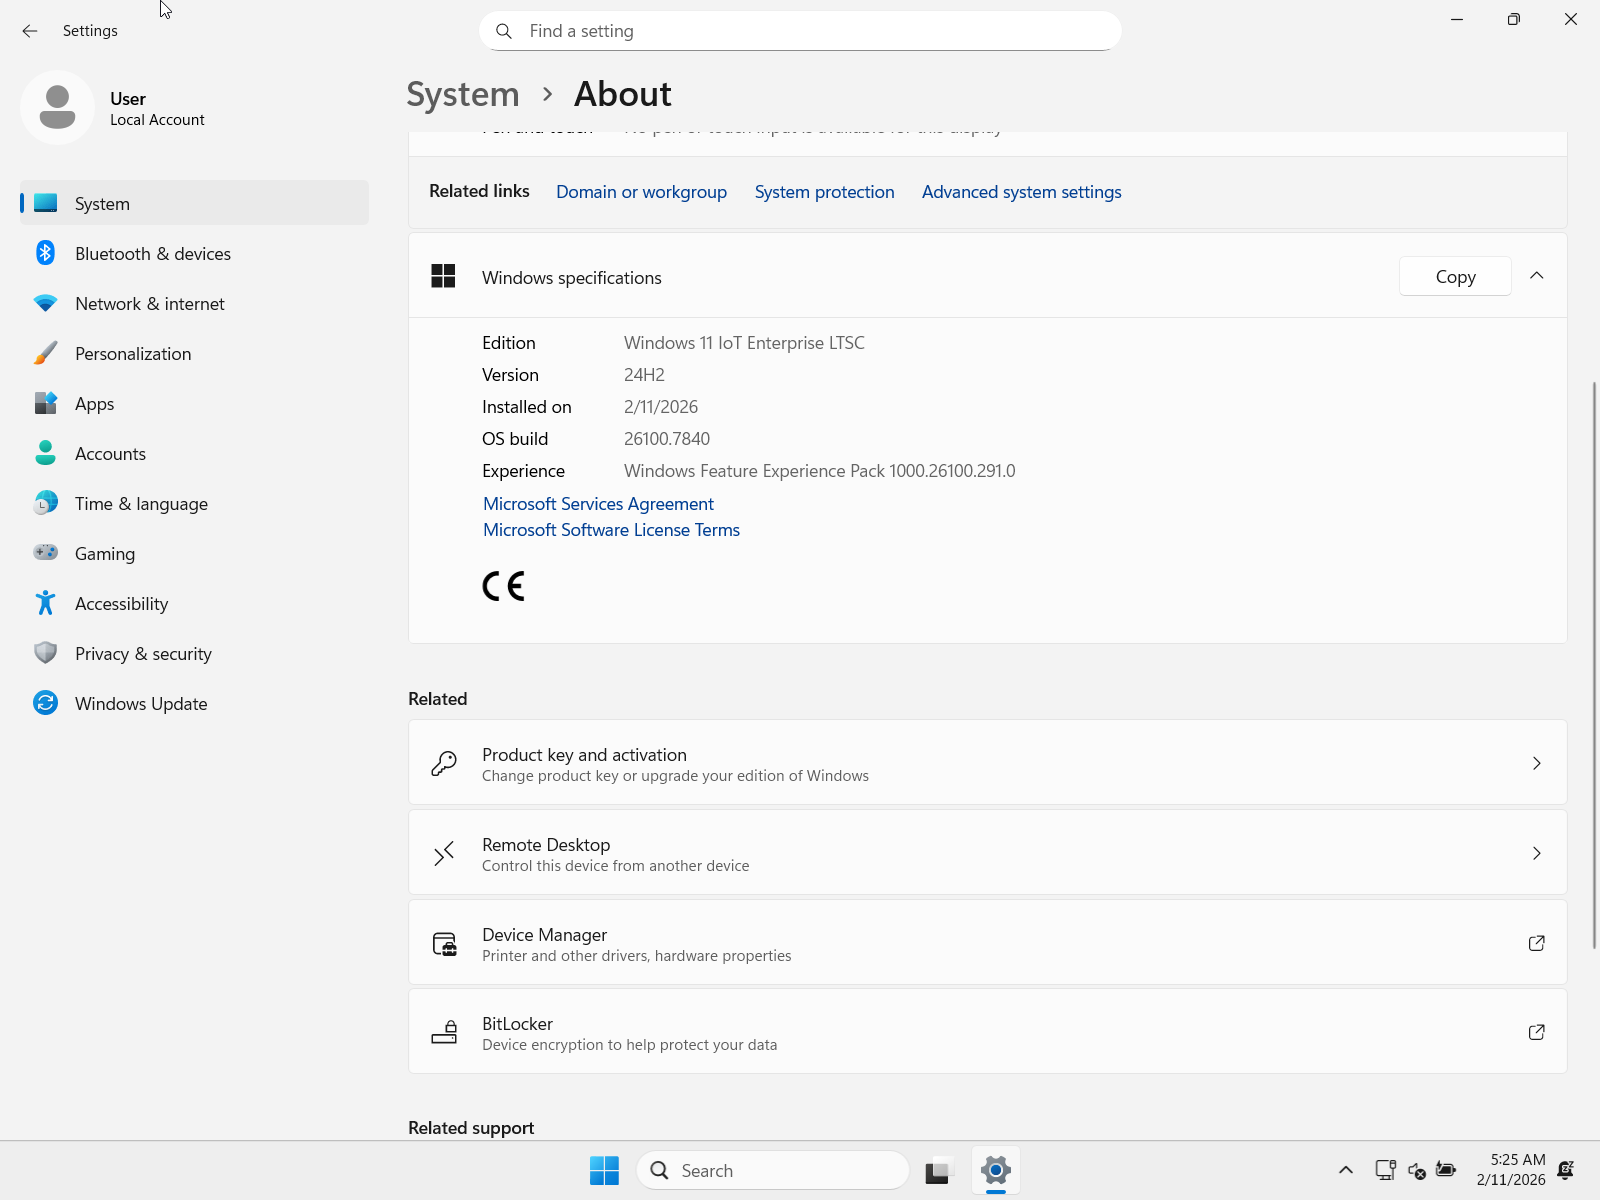
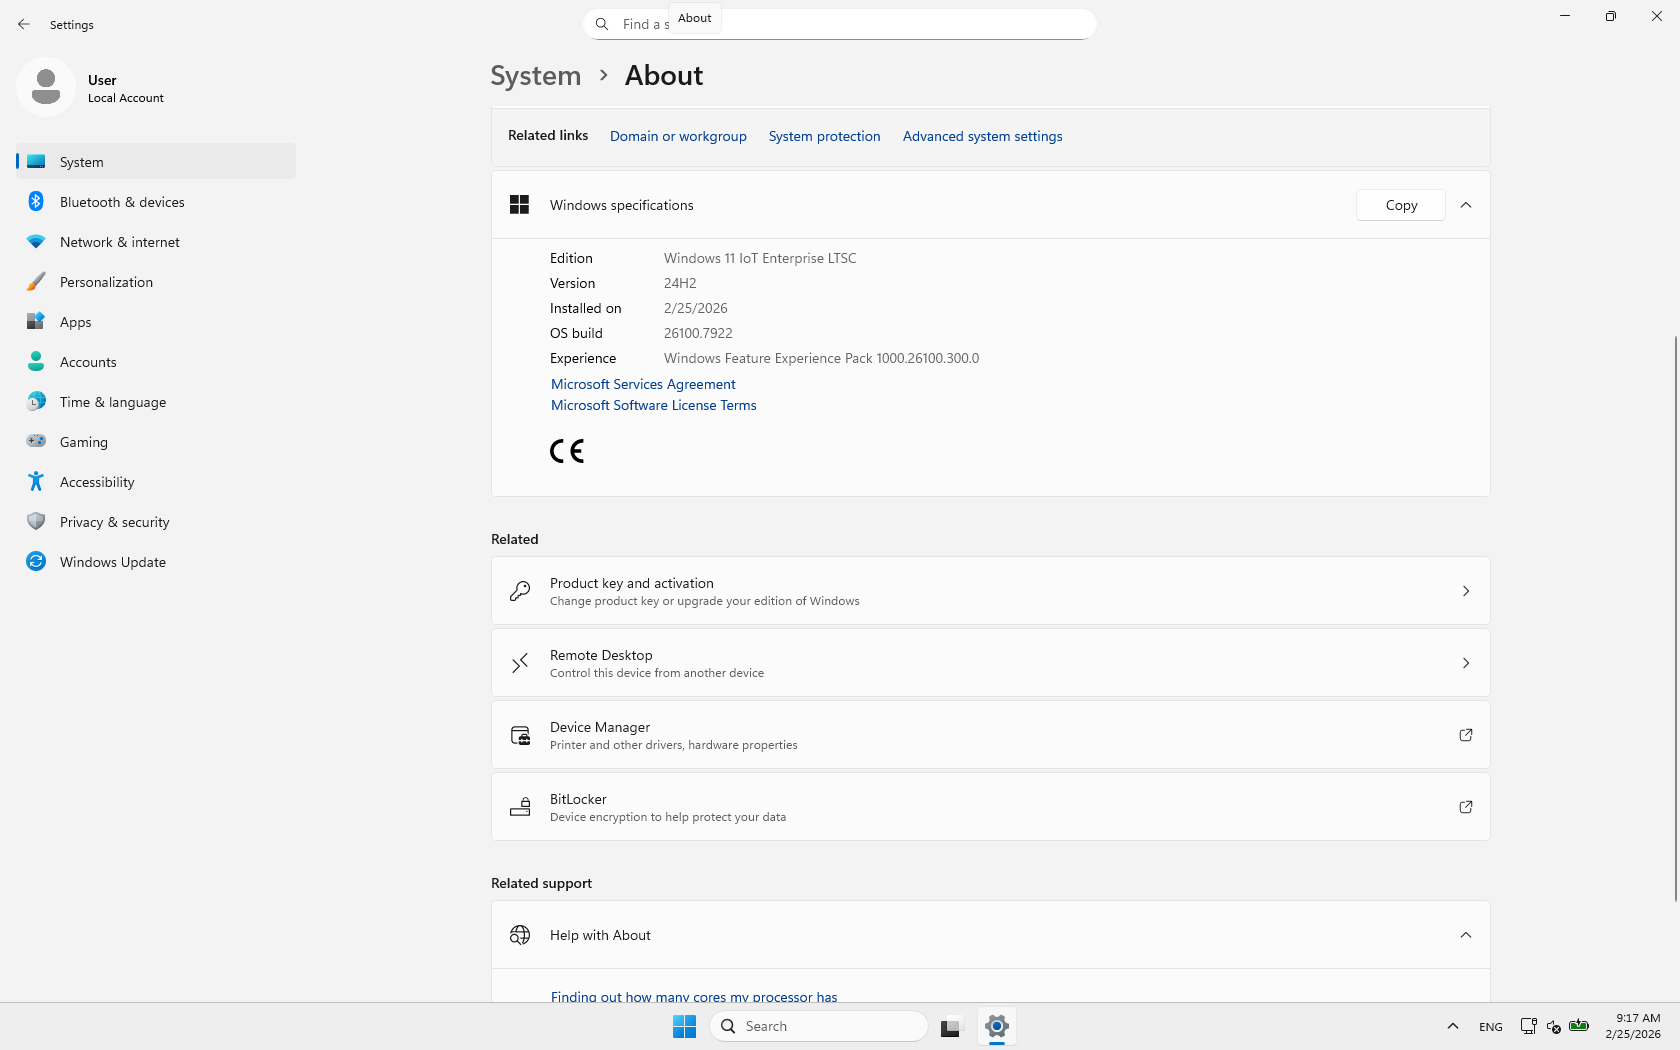
update

diff --git a/windows-11-en/index.html b/windows-11-en/index.html
@@ -53,7 +53,7 @@
             <div class="card-text"><a href="/" class="return-link"><span class="lang-en"><b>Return to Home</b></span><span class="lang-ru"><b>Вернуться на главную</b></span></a></div>
             <div class="card-text"><span class="lang-en">Language: English</span><span class="lang-ru">Язык: Английский</span></div>
             <div class="card-text"><span class="lang-en">Windows 11 IoT Enterprise LTSC (Long-Term Servicing Channel) is a lightweight version of Windows with long-term support, designed for stable performance on embedded devices and specialized systems. It excludes unnecessary apps, reducing system requirements and making it an ideal solution where reliability and minimal interference are critical.</span><span class="lang-ru">Windows 11 IoT Enterprise LTSC (Long-Term Servicing Channel) — это облегченная версия Windows с долгосрочной поддержкой, разработанная для стабильной работы на встраиваемых устройствах и специализированных системах. Она исключает ненужные приложения, снижая системные требования и делая ее идеальным решением там, где критически важны надежность и минимальное вмешательство.</span></div>
-            <div class="updated"><span class="lang-en"><b>TPM, Secure Boot, and OOBE checks are disabled,<br>Updated to 26100.7840 (February 2026) by somov</b></span><span class="lang-ru"><b>Проверки TPM, Secure Boot и OOBE отключены,<br>Обновлено до 26100.7840 (Февраль 2026) by somov</b></span></div>
+            <div class="updated"><span class="lang-en"><b>TPM, Secure Boot, and OOBE checks are disabled,<br>Updated to 26100.7922 Preview (February 2026) by somov</b></span><span class="lang-ru"><b>Проверки TPM, Secure Boot и OOBE отключены,<br>Обновлено до 26100.7922 Предварительная версия (Февраль 2026) by somov</b></span></div>
             <div class="card-text"><span class="lang-en"><b>System Requirements:</b></span><span class="lang-ru"><b>Системные требования:</b></span></div>
             <div class="card-text">
               <ol class="marker-list">
@@ -66,13 +66,13 @@
             </div>
             <div class="card-text"><span class="lang-en"><b>Image checksums:</b></span><span class="lang-ru"><b>Контрольные суммы образа:</b></span></div>
             <div class="card-text">
-              <ol class="marker-list"><li><b>CRC32:</b> 1cdebf70</li>
-              <li><b>MD5:</b> 9bc4ed0801b86a0e84af34fa4823c0ac</li>
-              <li><b>SHA-1:</b> de0ac0b2cb92c01ec540aba8689aabe03955b611</li>
+              <ol class="marker-list"><li><b>CRC32:</b> 046cc330</li>
+              <li><b>MD5:</b> 32b05e3bad65fe90d441f6d038db2010</li>
+              <li><b>SHA-1:</b> 654143750c1c11abac725e9924457497d7081972</li>
             </ol></div>
             <div class="button-container">
-            <a class="btn-windows" href="https://dl3.somov.org/en-us_windows_11_iot_enterprise_ltsc_2024_x64_26100.7840_by_somov.iso"><span class="lang-en">Download</span><span class="lang-ru">Скачать</span></a>
-            <a class="torrent-link" href="https://dl.somov.org/en-us_windows_11_iot_enterprise_ltsc_2024_x64_26100.7840_by_somov.iso.torrent"><span class="lang-en">Download by torrent</span><span class="lang-ru">Скачать с помощью torrent</span></a>
+            <a class="btn-windows" href="https://dl3.somov.org/en-us_windows_11_iot_enterprise_ltsc_2024_x64_26100.7922_by_somov.iso"><span class="lang-en">Download</span><span class="lang-ru">Скачать</span></a>
+            <a class="torrent-link" href="https://dl.somov.org/en-us_windows_11_iot_enterprise_ltsc_2024_x64_26100.7922_by_somov.iso.torrent"><span class="lang-en">Download by torrent</span><span class="lang-ru">Скачать с помощью torrent</span></a>
             </div>
   <div class="full-width-section">
     <div class="gallery">

diff --git a/windows-11-ru/index.html b/windows-11-ru/index.html
@@ -53,7 +53,7 @@
             <div class="card-text"><a href="/" class="return-link"><span class="lang-en"><b>Return to Home</b></span><span class="lang-ru"><b>На главную</b></span></a></div>
             <div class="card-text"><span class="lang-en">Language: Russian</span><span class="lang-ru">Язык: Русский</span></div>
             <div class="card-text"><span class="lang-en">Windows 11 IoT Enterprise LTSC (Long-Term Servicing Channel) is a lightweight version of Windows with long-term support, designed for stable performance on embedded devices and specialized systems. It excludes unnecessary apps, reducing system requirements and making it an ideal solution where reliability and minimal interference are critical.</span><span class="lang-ru">Windows 11 IoT Enterprise LTSC (Long-Term Servicing Channel) — это облегчённая версия Windows с долгосрочной поддержкой, разработанная для стабильной работы на встраиваемых устройствах и специализированных системах. Она лишена лишних приложений, что снижает системные требования и делает её идеальным решением, где важны надёжность и минимальное вмешательство.</span></div>
-            <div class="updated"><span class="lang-en"><b>TPM, Secure Boot, and OOBE checks are disabled,<br>Updated to 26100.7840 (February 2026) by somov</b></span><span class="lang-ru"><b>Проверки TPM, Secure Boot и OOBE отключены,<br>Обновлено до 26100.7840 (Февраль 2026) by somov</b></span></div>
+            <div class="updated"><span class="lang-en"><b>TPM, Secure Boot, and OOBE checks are disabled,<br>Updated to 26100.7922 Preview (February 2026) by somov</b></span><span class="lang-ru"><b>Проверки TPM, Secure Boot и OOBE отключены,<br>Обновлено до 26100.7922 Предварительная версия (Февраль 2026) by somov</b></span></div>
             <div class="card-text"><span class="lang-en"><b>System Requirements:</b></span><span class="lang-ru"><b>Системные требования:</b></span></div>
             <div class="card-text">
               <ol class="marker-list">
@@ -66,13 +66,13 @@
             </div>
             <div class="card-text"><span class="lang-en"><b>Image checksums:</b></span><span class="lang-ru"><b>Контрольные суммы:</b></span></div>
             <div class="card-text">
-              <ol class="marker-list"><li><b>CRC32:</b> b2be58ae</li>
-              <li><b>MD5:</b> 3ccf7a54baf5161393c2c5aa18f0e0a2</li>
-              <li><b>SHA-1:</b> ff2d3034a0b9fe0e711fbeba7e2ed61ffc7b3517</li>
+              <ol class="marker-list"><li><b>CRC32:</b> 06bb7396</li>
+              <li><b>MD5:</b> 308b6e16efac2cc23731f14f9c7ecf8f</li>
+              <li><b>SHA-1:</b> ac1a199d33625cb6322c9a4323b2734a3b5dae70</li>
             </ol></div>
             <div class="button-container">
-            <a class="btn-windows" href="https://dl3.somov.org/ru-ru_windows_11_iot_enterprise_ltsc_2024_x64_26100.7840_by_somov.iso"><span class="lang-en">Download</span><span class="lang-ru">Скачать</span></a>
-            <a class="torrent-link" href="https://dl.somov.org/ru-ru_windows_11_iot_enterprise_ltsc_2024_x64_26100.7840_by_somov.iso.torrent"><span class="lang-en">Download by torrent</span><span class="lang-ru">Скачать с помощью torrent</span></a>
+            <a class="btn-windows" href="https://dl3.somov.org/ru-ru_windows_11_iot_enterprise_ltsc_2024_x64_26100.7922_by_somov.iso"><span class="lang-en">Download</span><span class="lang-ru">Скачать</span></a>
+            <a class="torrent-link" href="https://dl.somov.org/ru-ru_windows_11_iot_enterprise_ltsc_2024_x64_26100.7922_by_somov.iso.torrent"><span class="lang-en">Download by torrent</span><span class="lang-ru">Скачать с помощью torrent</span></a>
             </div>
   <div class="full-width-section">
     <div class="gallery">
